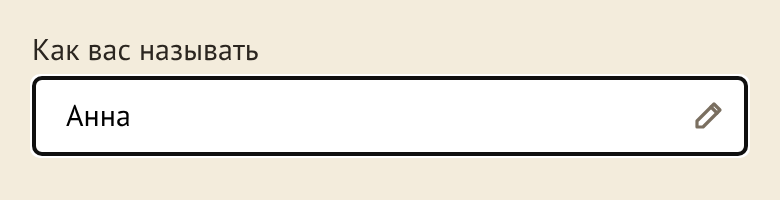
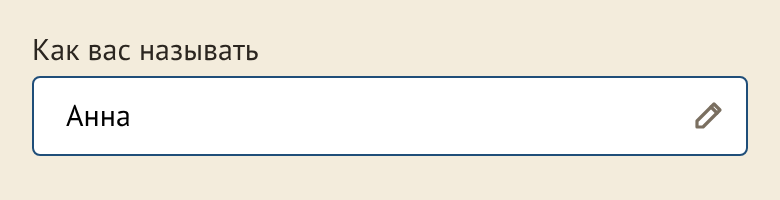
Поле имени в фокусе — как открытый выпадающий список (рамка цветом акцента, без обводки)
Claude-Session: https://claude.ai/code/session_01LSkBemXMJTAR5NMpQfQSqP

Changed region(s): [[0.0308, 0.36, 0.9846, 0.81]]

diff --git a/src/client/style.css b/src/client/style.css
@@ -83,6 +83,8 @@ label { display: flex; flex-direction: column; gap: 4px; margin: 8px 0; }
    Карандаш — по центру квадрата 40×40 у правого края поля (как стрелка выпадающего списка). */
 .title-screen .name-field { position: relative; display: block; }
 .title-screen .name-field input { width: 100%; height: 40px; box-sizing: border-box; padding: 0 40px 0 16px; }
+/* В фокусе — как открытый выпадающий список: только рамка поля цветом акцента, без обводки браузера. */
+.title-screen .name-field input:focus { outline: none; border-color: var(--accent); }
 .title-screen .name-field .edit-icon { position: absolute; right: 11px; top: 11px; color: var(--muted); pointer-events: none; } /* (40 − 18) / 2 = 11 */
 /* Автор игры — внизу титульного экрана (на телефоне — над плашкой «Создать свою игру»). */
 .title-screen .credit { position: fixed; left: 0; right: 0; bottom: 16px; margin: 0; text-align: center; }
